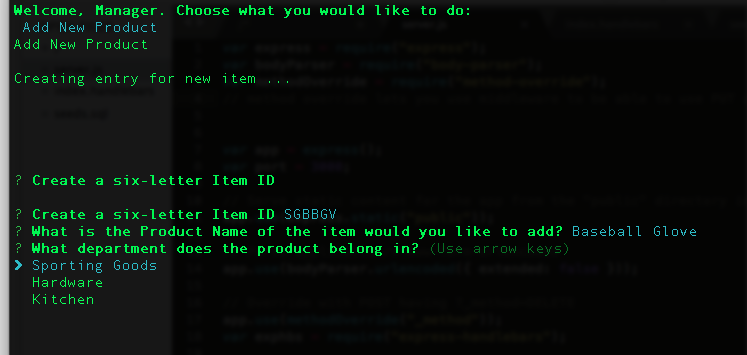
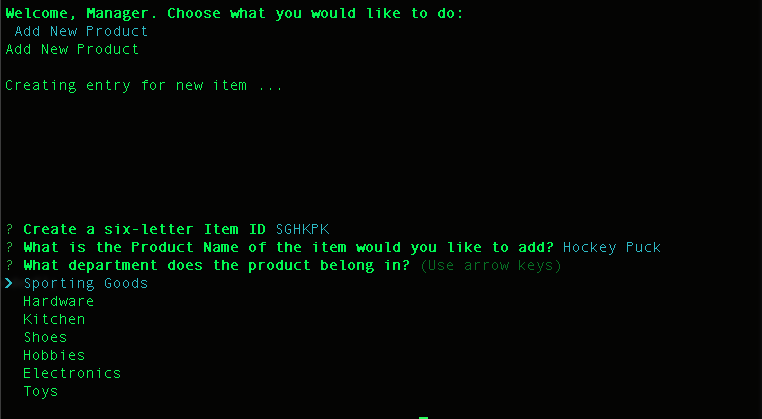
cleaned up some spacing & js function order

Changed region(s): [[0.0, 0.0, 0.8621, 1.0], [0.7697, 0.6507, 0.8313, 0.6817], [0.5234, 0.9915, 0.585, 1.0]]

diff --git a/bamazonManager.js b/bamazonManager.js
@@ -1,4 +1,4 @@
-// bamazon MANGER app
+// bamazon MANAGER app
 
 var mysql = require("mysql");
 var inquirer = require("inquirer");
@@ -12,7 +12,7 @@ var connection = mysql.createConnection({
   host: "localhost",
   port: 3306,
   user: "root",
-  password: "",
+  password: "H33zy4s!",
   database: "bamazon"
 });
 
@@ -191,9 +191,9 @@ function addQty(){
           type:"input",
           message:"What item would you like to add more units to? Enter the Item ID:",
           name:"item" //,
-          // to validate a item ID entry using regular expression to ensure that only six digits are entered
+          // to validate a item ID entry using regular expression to ensure that only six upper-case letters are entered
           /* validate: function (item) {
-            var prod = item.match(/^( \D{6});
+            var prod = item.match(/^([A-Z]\d{4});
             if (prod) {
               return true;
               }
@@ -215,6 +215,8 @@ function addQty(){
         connection.query(updateQuery, [ increase.qty, { item_id: increase.item }], function(err, res) {
         	if(err) throw err;
         	
+          console.log(oneLine);
+          console.log(oneLine);
         	console.log("You have successfully modified the product\'s quantity in inventory.");
         	console.log("\nHere is the updated record:");
         	
@@ -252,12 +254,10 @@ function viewProd(item){
     console.log(tableInventory.toString());
 
     // adding space after rendered table
-   	console.log(oneLine);
-   	console.log("Use Up or Down Arrow Keys to Continue ...")
-   	console.log(oneLine);
-   	giveMeSpace();
+    console.log(oneLine);
+    // return original inquirer list for manager's choice
+    startMeUp();
   });
-  startMeUp();
 };
 
         
@@ -267,53 +267,74 @@ function viewProd(item){
 
 
 function newItem(){
-  inquirer.
+  // first, I want to pull an array of current departments to use to populate the dept list in the inquirer
+  var allDepts = [];
+  var deptQuery = "SELECT department_name FROM departments;"
+  connection.query(deptQuery, function(err, res) {
+    if(err) throw err;
+    // hold department names in an array
+    for (var i = 0; i < res.length; i++) {
+    // the allDepts is an Array, so you can `push`, `unshift`, `splice` and the rest 
+      allDepts.push(res[i].department_name);   
+    };
+    inquirer.
     prompt([
-        {
-          type:"input",
-          message:"Create a six-letter Item ID",
-          name:"item"
-        },
-        {
-          type:"input",
-          message:"What is the Product Name of the item would you like to add?",
-          name:"prodname"
-        },
-        {
-          type:"list",
-          choices: ["Sporting Goods", "Hardware", "Kitchen"],
-          message:"What department does the product belong in?",
-          name:"deptname"
-        },
-        {
-          type:"input",
-          message:"What will the item cost?",
-          name:"newPrice"
-        },
-        {
-          type:"input",
-          message:"How many will go into the inventory intitially?",
-          name:"qty"
-        }
+      {
+        type:"input",
+        message:"Create a six-letter Item ID",
+        name:"item"
+         // to validate a item ID entry using regular expression to ensure that only six upper-case letters are entered
+        /* validate: function (item) {
+          var prod = item.match(/^([A-Z]\d{4});
+          if (prod) {
+            return true;
+            }
+          return 'Please enter a valid item ID';
+          } */
+      },
+      {
+        type:"input",
+        message:"What is the Product Name of the item would you like to add?",
+        name:"prodname"
+      },
+      {
+        type:"list",
+        // allDepts is the current List array so it goes below so it's the list to choose from
+        choices: allDepts,
+        message:"What department does the product belong in?",
+        name:"deptname"
+      },
+      {
+        type:"input",
+        message:"What will the item cost?",
+        name:"newPrice"
+      },
+      {
+        type:"input",
+        message:"How many will go into the inventory initially?",
+        name:"qty"
+      }
     ]).then(function(itsNew){
-        var insertQuery = "INSERT INTO products (item_id, product_name, department_name, price, stock_quantity) VALUES (?, ?, ?, ?, ?);"
-        // var insertQuery = "INSERT INTO products (item_id, product_name, department_name, price, stock_quantity) VALUES (*);"
-        connection.query(insertQuery, [ itsNew.item, itsNew.prodname, itsNew.deptname, itsNew.newPrice, itsNew.qty ], function(err, res) {
-        		if(err) throw err;
+      var insertQuery = "INSERT INTO products (item_id, product_name, department_name, price, stock_quantity) VALUES (?, ?, ?, ?, ?);"
+      connection.query(insertQuery, [ itsNew.item, itsNew.prodname, itsNew.deptname, itsNew.newPrice, itsNew.qty ], function(err, res) {
+        if(err) throw err;
 
-        		var boldNewItem = itsNew.prodname.toUpperCase();
+        var myNewItem = itsNew.prodname.toUpperCase();
+        console.log(oneLine);
+        console.log(oneLine);
+        console.log("You have successfully added a new product called " + myNewItem + " to your inventory.");
+        console.log("\nHere is the new record:");
+          
+      });
 
-				console.log("You have successfully added a new product called " + boldNewItem + " to your inventory.");
-        		console.log("Here is the new record:");
-        	
-        	});
+     return itsNew.item;
 
-       return itsNew.item;
-
-       // show that record was updated successfully by calling the viewProd function that just displays the record that was updated (in table format)
+    // show that record was updated successfully by calling the viewProd function that just displays the record that was updated (in table format)
     }).then (function(item){ 
-    	viewProd(item);
-	});
+      viewProd(item);
+    });
+  });
+  
 };
 
 

diff --git a/bamazonSupervisor.js b/bamazonSupervisor.js
@@ -109,20 +109,6 @@ function viewSales(){
         , colAligns: aligns
     });
 
-    /*
-        
-
-
-        WISH LIST:
-
-        I want the result table to also show ALL departments' records regardless if there are any items in the store 
-        (since there ARE overhead costs, it seems like you'd want to show the losses, too.)
-
-
-
-
-    */
-
     // loop through store's departments
     for(i=0; i<res.length; i++){
       var total_profit = (res[i].product_sales - res[i].over_head_costs);
@@ -168,9 +154,10 @@ function newDept(){
         connection.query(insertQuery, [ itsNew.dept, itsNew.costs ], function(err, res) {
             if(err) throw err;
 
-            var boldNewDept = itsNew.dept.toUpperCase();
-
-            console.log("You have successfully added a new department called " + boldNewDept + " to your store.");
+            var myNewDept = itsNew.dept.toUpperCase();
+            console.log(oneLine);
+            console.log(oneLine);
+            console.log("You have successfully added a new department called " + myNewDept + " to your store.");
             console.log("Here is the new record:");
           
           });
@@ -209,10 +196,8 @@ function viewDept(dept){
 
     // adding space after rendered table
    	console.log(oneLine);
-   	console.log("Use Up or Down Arrow Keys to Continue ...")
-   	console.log(oneLine);
-   	giveMeSpace();
+    // return original inquirer list for supervisor's choice
+    startMeUp();
   });
-  startMeUp();
 };
 

diff --git a/bamazonCustomer.js b/bamazonCustomer.js
@@ -10,7 +10,7 @@ var connection = mysql.createConnection({
   host: "localhost",
   port: 3306,
   user: "root",
-  password: "",
+  password: "H33zy4s!",
   database: "bamazon"
 });
 
@@ -116,9 +116,13 @@ function buyItem(){
             if (res[0].stock_quantity < order.qty) {
 
               /* If not, the app should log a phrase like Insufficient quantity!, and then prevent the order from going through. */
-
+              console.log(oneLine);
               console.log("We\'re sorry - We do not have sufficient quantities of the product in stock at this time!");
               console.log("Thank you for your interest. Please check back again soon.");
+		          console.log(oneLine);
+		// follow-up prompt
+                whatNow();
+
             } else {
                
               /* However, if your store does have enough of the product, you should fulfill the customer's order.
